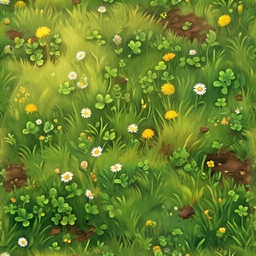
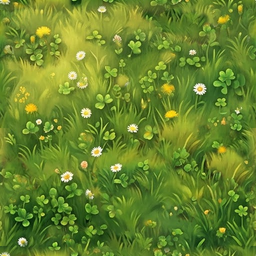
Klapperkiste: Gras-Kachel ohne Erdstellen (boden.py --ohne-erde)
Claude-Session: https://claude.ai/code/session_01WRaeiUW1SS7Jnky8dn2gGr

diff --git a/klapperkiste/tools/boden.py b/klapperkiste/tools/boden.py
@@ -6,7 +6,7 @@ eine Kachel heraus, blendet die Ränder weich über (damit sich die Kachel ohne
 Kante wiederholt) und rechnet sie auf den Kartenmaßstab um (32 px pro Meter).
 
 Aufruf:
-  python klapperkiste/tools/boden.py kachel EINGABE NAME [--meter 8]
+  python klapperkiste/tools/boden.py kachel EINGABE NAME [--meter 8] [--ohne-erde]
   python klapperkiste/tools/boden.py probe NAME [ausgabe.png]
 
 Ergebnis: assets/karte/boden/NAME.png
@@ -18,7 +18,7 @@ import argparse
 import os
 import sys
 
-from PIL import Image, ImageChops, ImageDraw, ImageStat
+from PIL import Image, ImageChops, ImageDraw, ImageFilter, ImageStat
 
 ROOT = os.path.abspath(os.path.join(os.path.dirname(__file__), ".."))
 BODEN_DIR = os.path.join(ROOT, "assets", "karte", "boden")
@@ -60,10 +60,27 @@ def nahtlos(kachel: Image.Image, anteil: float = UEBERGANG) -> Image.Image:
     return ImageChops.offset(gemischt, -(w // 2), -(h // 2))
 
 
-def kachel(eingabe: str, name: str, meter: float) -> str:
+def erde_weg(bild: Image.Image, versatz: tuple[int, int] = (97, 61)) -> Image.Image:
+    """Braune Erdstellen mit Gras von einer verschobenen Stelle der Kachel übermalen."""
+    rgb = bild.convert("RGB")
+    r, g, b = rgb.split()
+    rot_vor_gruen = ImageChops.subtract(r, g).point(lambda v: 255 if v > 0 else 0)
+    dunkel = g.point(lambda v: 255 if v < 110 else 0)  # Blumen (gelb, weiß) sind hell und bleiben
+    braun = ImageChops.multiply(rot_vor_gruen, dunkel)
+    braun = braun.filter(ImageFilter.MaxFilter(9)).filter(ImageFilter.GaussianBlur(3))
+    ersatz = ImageChops.offset(rgb, *versatz)
+    ersatz_braun = ImageChops.offset(braun, *versatz)
+    nutzbar = ImageChops.subtract(braun, ersatz_braun)  # nur wo die Ersatzstelle selbst grün ist
+    return Image.composite(ersatz, rgb, nutzbar)
+
+
+def kachel(eingabe: str, name: str, meter: float, ohne_erde: bool = False) -> str:
     bild = Image.open(eingabe).convert("RGB")
     px, py = periode(bild, "x"), periode(bild, "y")
     teil = nahtlos(bild.crop((0, 0, px, py)))
+    if ohne_erde:
+        for v in ((97, 61), (-131, 83), (53, -149)):
+            teil = erde_weg(teil, v)
     ziel_px = round(meter * PX_PRO_M)
     teil = teil.resize((ziel_px, ziel_px), Image.LANCZOS)
     os.makedirs(BODEN_DIR, exist_ok=True)
@@ -95,13 +112,14 @@ def main(argv: list[str] | None = None) -> int:
     k.add_argument("eingabe")
     k.add_argument("name")
     k.add_argument("--meter", type=float, default=8, help="Kantenlänge der Kachel in Metern (Standard 8)")
+    k.add_argument("--ohne-erde", action="store_true", help="braune Erdstellen übermalen (z. B. für Gras)")
     pr = sub.add_parser("probe")
     pr.add_argument("name")
     pr.add_argument("ausgabe", nargs="?")
     pr.add_argument("--auto", help="Draufsicht eines Autos als Größenvergleich")
     args = p.parse_args(argv)
     if args.befehl == "kachel":
-        kachel(args.eingabe, args.name, args.meter)
+        kachel(args.eingabe, args.name, args.meter, args.ohne_erde)
     else:
         ziel = args.ausgabe or os.path.join(BODEN_DIR, f"probe_{args.name}.png")
         probe(args.name, args.auto).save(ziel)
